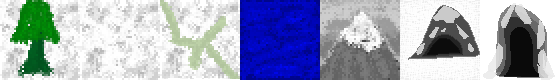
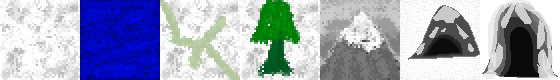
terrain tile sheets are now supported both in-game and in editor mode

diff --git a/js/World.js b/js/World.js
@@ -85,11 +85,13 @@ function drawVisibleWorldHelper(col,row,gridCols,map)
 			if(tileType == TILE_HORN || tileType == TILE_EYEPATCH || tileType == TILE_BEACON ||
 			tileType == TILE_TENCTACLE || tileType == TILE_DICTIONARY || tileType == TILE_WORMHOLE)
 			{
-				canvasContext.drawImage(worldPics[tileType], tileLeftEgdeX + 20, tileTopEdgeY + 20);
+				canvasContext.drawImage(worldPics[tileType], 0, 0, 40,40, tileLeftEgdeX + 20, tileTopEdgeY + 20, 
+					worldPics[tileType].width,worldPics[tileType].height);
 			}
 			else
 			{
-				canvasContext.drawImage(worldPics[tileType], tileLeftEgdeX, tileTopEdgeY);
+				// canvasContext.drawImage(worldPics[tileType], tileLeftEgdeX, tileTopEdgeY);
+				drawTileBasedOnType(tileType, tileLeftEgdeX, tileTopEdgeY);
 			}
 		}	
 		else
@@ -105,6 +107,43 @@ function drawVisibleWorldHelper(col,row,gridCols,map)
 			}
 		}		
 	}
+}
+
+function drawTileBasedOnType(tileType, tileLeftEgdeX,tileTopEdgeY)
+{
+	var xClipping = 0;
+	var yClipping = 0;
+
+	switch(tileType)
+	{
+		case TILE_SNOW:
+			break;
+		case TILE_OCEAN:
+			xClipping = TILE_W;
+			break;
+		case TILE_ROAD:
+			xClipping = TILE_W * 2;
+			break;
+		case TILE_TREE:
+			xClipping = TILE_W * 3;
+			break;
+		case TILE_MOUNTAIN:
+			xClipping = TILE_W * 4;
+			break;
+		case TILE_MT_ENTRY_DOOR:
+			xClipping = TILE_W * 5;
+			break;
+		case TILE_MT_EXIT_DOOR:
+			xClipping = TILE_W * 6;
+			break;
+		default:
+			xClipping = 0;
+			yClipping = 0;
+			break;
+	}
+
+	canvasContext.drawImage(worldPics[tileType], xClipping, yClipping, TILE_W,TILE_H, tileLeftEgdeX, tileTopEdgeY, 
+					TILE_W, TILE_H);
 }
 
 function getTileIndexAtRowCol(pxX, pxY, gridCols, gridRows)

diff --git a/js/ImageLoading.js b/js/ImageLoading.js
@@ -14,14 +14,14 @@ function loadImages()
 		{charName: slimePic, fileName: "slime_quick_sheet.png"},
 
 		// World Pics Go Here
-		{worldType: TILE_ROAD, fileName: "road_quick.png"},
-		{worldType: TILE_OCEAN, fileName: "ocean_quick.png"},
+		{worldType: TILE_ROAD, fileName: "placeholder_terrain_sheet.png"},
+		{worldType: TILE_OCEAN, fileName: "placeholder_terrain_sheet.png"},
 		{worldType: TILE_SNOW_GRASS, fileName: "snowyGrass.png"},
-		{worldType: TILE_SNOW, fileName: "snow_quick.png"},
-		{worldType: TILE_MOUNTAIN, fileName: "mountain_quick.png"},
-		{worldType: TILE_TREE, fileName: "tree_quick.png"},
-		{worldType: TILE_MT_ENTRY_DOOR, fileName: "mountain_entrance_door.png"},
-		{worldType: TILE_MT_EXIT_DOOR, fileName: "exit_from_mountains.png"},
+		{worldType: TILE_SNOW, fileName: "placeholder_terrain_sheet.png"},
+		{worldType: TILE_MOUNTAIN, fileName: "placeholder_terrain_sheet.png"},
+		{worldType: TILE_TREE, fileName: "placeholder_terrain_sheet.png"},
+		{worldType: TILE_MT_ENTRY_DOOR, fileName: "placeholder_terrain_sheet.png"},
+		{worldType: TILE_MT_EXIT_DOOR, fileName: "placeholder_terrain_sheet.png"},
 
 		{worldType: TILE_HORN, fileName: "chaos_horn_quick.png"},
 		{worldType: TILE_EYEPATCH, fileName: "odins_eyepatch_quick.png"},

diff --git a/js/LevelEditor.js b/js/LevelEditor.js
@@ -23,7 +23,7 @@ function Editor()
 	this.tileIndex = 0;
 	
 	this.usableTiles = [
-		{setName: "placeholderTiles", tileSet: [TILE_SNOW,TILE_OCEAN,TILE_ROAD,TILE_TREE,TILE_MOUNTAIN,TILE_MT_ENTRY_DOOR]},
+		{setName: "placeholderTiles", tileSet: [TILE_SNOW,TILE_OCEAN,TILE_ROAD,TILE_TREE,TILE_MOUNTAIN,TILE_MT_ENTRY_DOOR,TILE_MT_EXIT_DOOR]},
 		{setName: "placeholderItems", tileSet: [TILE_HORN,TILE_EYEPATCH,TILE_TENCTACLE,TILE_WORMHOLE,TILE_DICTIONARY,TILE_BEACON]},
 		{setName: "placeholderCharacters", tileSet: [TILE_PLAYER,TILE_ENEMY]},
 	];
